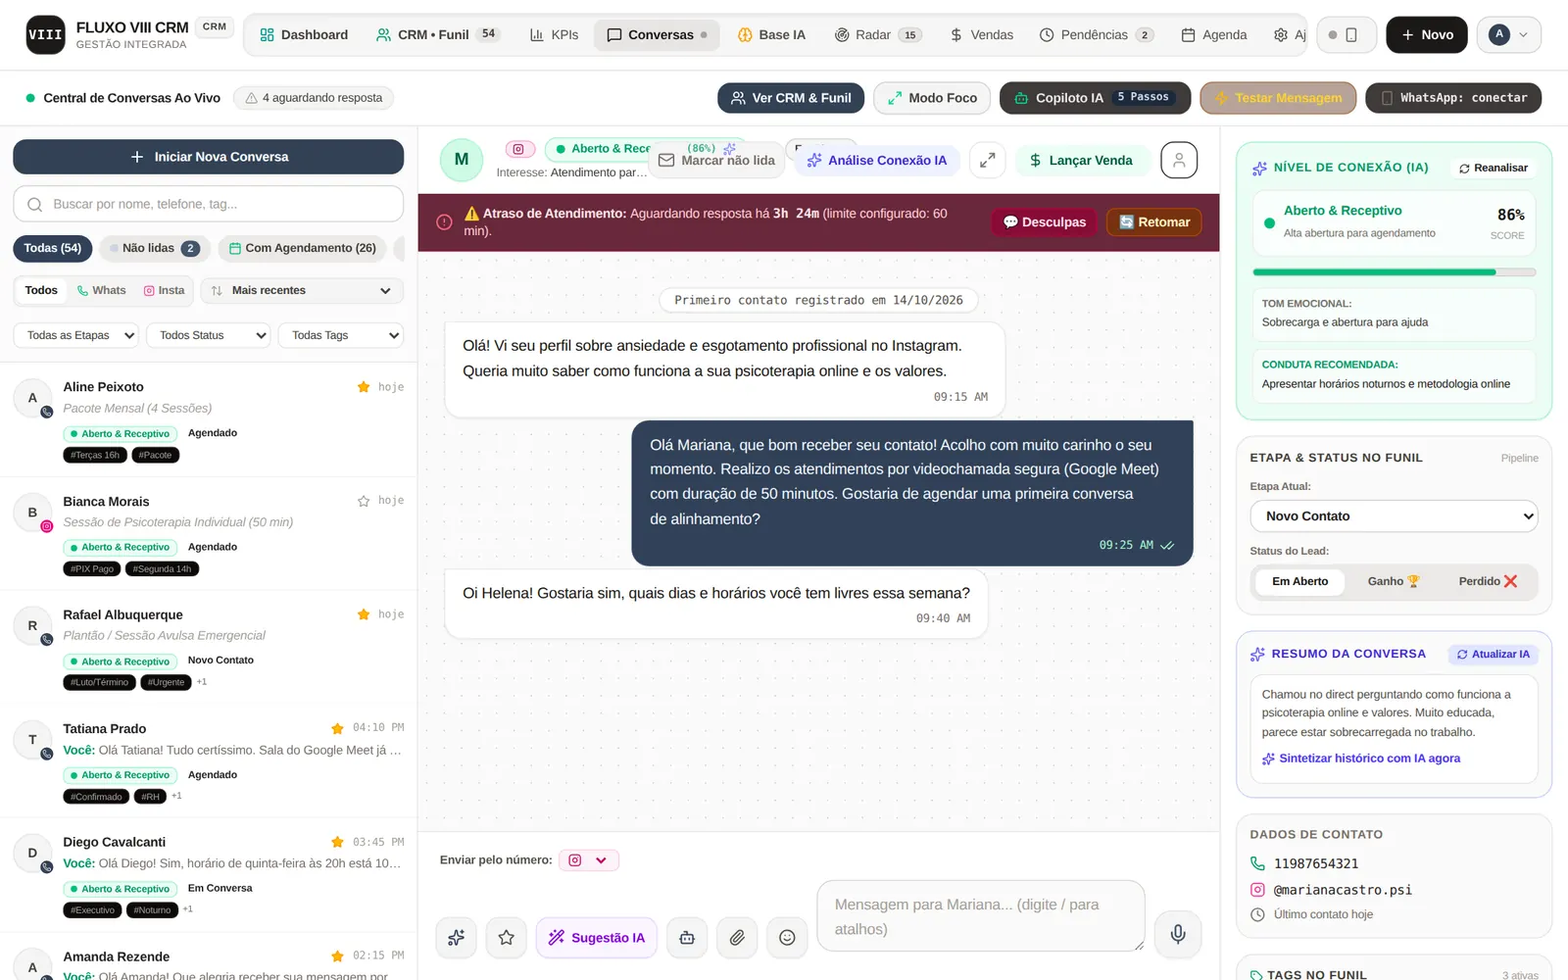
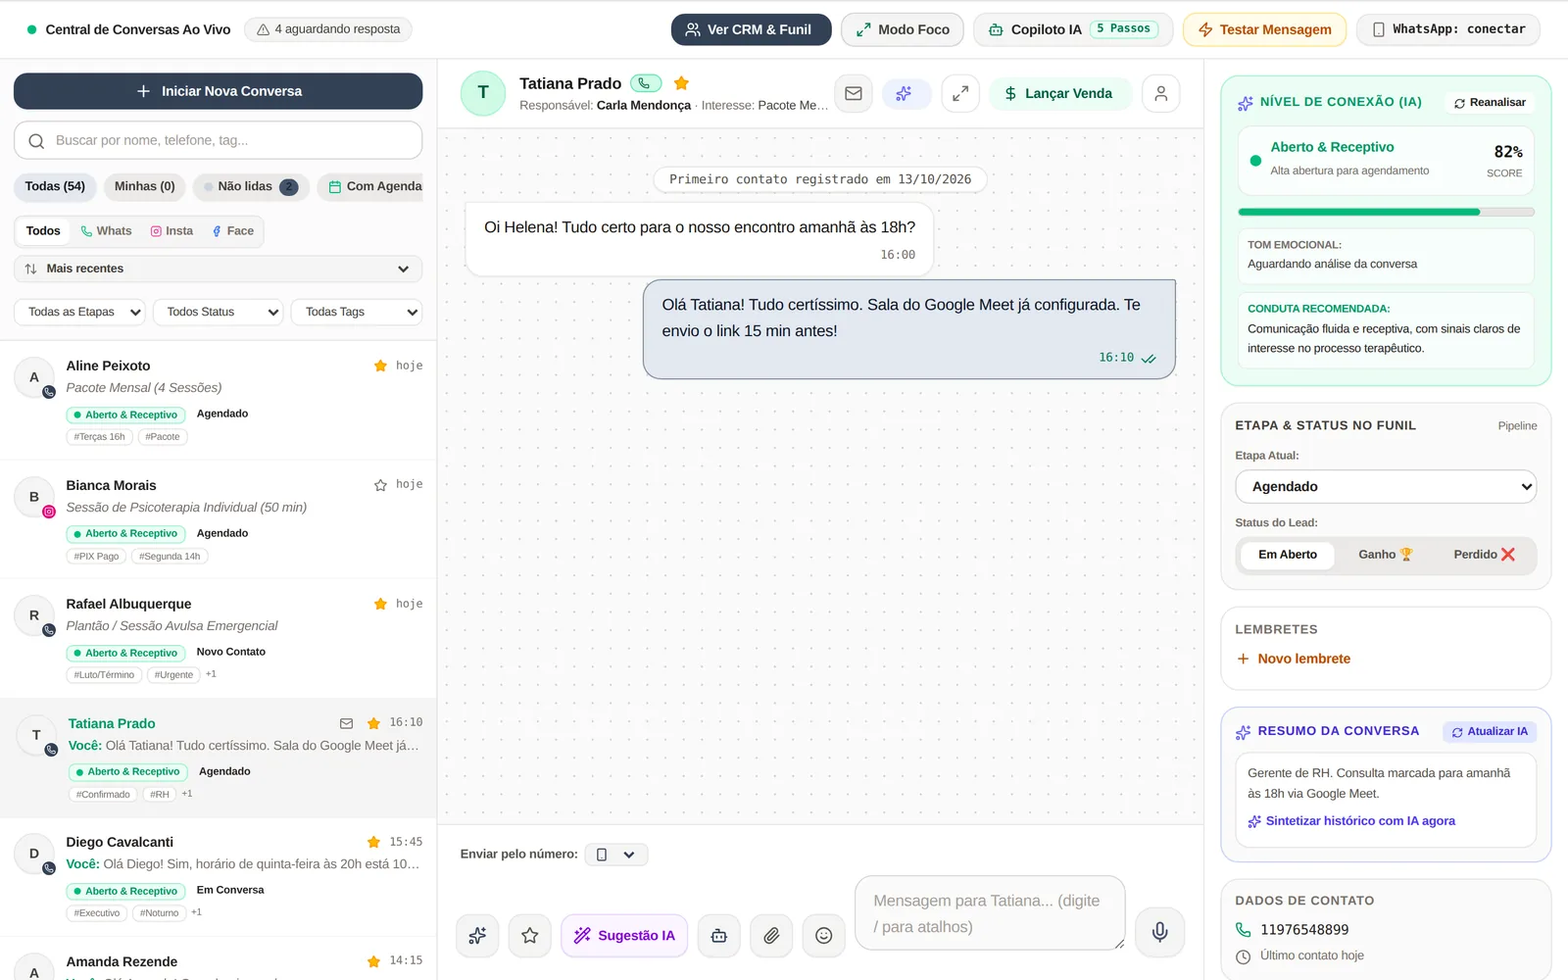
Prints novos do CRM (automação explicada) e versão de celular refeita
- Veja por dentro: 6 prints novos em tema claro e com zoom (funil com produtos e valor por etapa, conversa da Tatiana, card aberto com histórico, agenda, painel com meta) e a Automação explicada em uma imagem: venda ganha no funil Vendas, card nasce sozinho em CS · Pós-venda (Boas-vindas)
- Textos das abas Funil, Histórico e Automação atualizados
- Celular: menu com botão (Esc fecha), herói com o título primeiro e áreas em rolagem lateral, carrosséis com bolinhas, comparativo atrás de um botão, barra fixa com Ver planos e Falar com especialista, print do CRM que dá para arrastar
- Cache v=20261016a

Claude-Session: https://claude.ai/code/session_01Lv9fmrgHoT3vaFcuoHhKxR

diff --git a/site.js b/site.js
@@ -462,6 +462,7 @@ function renderPerUser() {
     '<p class="pu-note">Exemplo com uma equipe de ' + team + " pessoas e um CRM que cobra R$ " + PER_SEAT.toLocaleString("pt-BR") + " por usuário por mês (e o agente de IA costuma ser cobrado à parte). Aqui a equipe e a IA já estão no preço do plano.</p>";
 }
 
+var compareOpen = false;
 function renderCompare() {
   if (!$("compare")) return;
   var yes = '<span class="yes" aria-label="sim">✓</span>';
@@ -502,9 +503,11 @@ function renderCompare() {
     if (r.length === 1) return '<tr class="grp"><th colspan="' + (PLANS.length + 1) + '" scope="colgroup">' + esc(r[0]) + "</th></tr>";
     return '<tr><th scope="row">' + esc(r[0]) + "</th>" + r[1].map(function (v, i) { return "<td" + (PLANS[i].tag ? ' class="hl"' : "") + ">" + (v.indexOf("<span") === 0 ? v : esc(v)) + "</td>"; }).join("") + "</tr>";
   }).join("");
+  $("compare").classList.toggle("open", compareOpen);
   $("compare").innerHTML =
     '<div class="head"><p class="kicker">Comparativo completo</p><h3>Tudo que entra em cada plano</h3><p>Sem letra miúda: linha por linha, o que muda de um plano para o outro.</p></div>' +
-    '<div class="compare-scroll" tabindex="0" role="region" aria-label="Tabela comparativa dos planos"><table class="compare"><thead>' + head + "</thead><tbody>" + body + "</tbody></table></div>";
+    '<button type="button" class="btn cmp-toggle" aria-expanded="' + compareOpen + '" aria-controls="compare-table">' + (compareOpen ? "Esconder comparativo" : "Ver comparativo completo") + "</button>" +
+    '<div class="compare-scroll" id="compare-table" tabindex="0" role="region" aria-label="Tabela comparativa dos planos"><table class="compare"><thead>' + head + "</thead><tbody>" + body + "</tbody></table></div>";
 }
 
 var creditPlan = "pro";
@@ -596,12 +599,12 @@ if ($("cycle-switch")) {
 // ---------------------------------------------------------------------------
 // Veja por dentro: telas reais do CRM em abas
 var INSIDE = [
-  ["funil", "Funil", "Cada contato vira um card e anda pelas etapas", ["Arraste o card de etapa em etapa e veja onde cada negócio está.", "Etiquetas, valor, última mensagem e o índice de conexão no próprio card.", "Funis separados para Vendas e CS, cada um com as suas etapas."]],
+  ["funil", "Funil", "Cada contato vira um card e anda pelas etapas", ["Arraste o card de etapa em etapa e veja onde cada negócio está.", "Produtos e valor no próprio card, e o total em aberto em cada etapa.", "No topo, quanto está em aberto, quanto foi ganho e quanto foi perdido."]],
   ["conversas", "Conversas", "WhatsApp e Instagram numa tela só", ["Todas as conversas da equipe, com quem está atendendo cada uma.", "Aviso de atraso quando alguém espera resposta há tempo demais.", "A IA resume a conversa e sugere o próximo passo."]],
-  ["historico", "Histórico do cliente", "Tudo o que aconteceu com cada pessoa", ["Mensagens, anotações, vendas e agendamentos numa linha do tempo.", "Contato, origem, interesse e responsável sempre à vista.", "Lance a venda ou marque o retorno dali mesmo."]],
+  ["historico", "Histórico do cliente", "Tudo o que aconteceu com cada pessoa", ["Responsável, etapa, status e produtos do card logo no topo.", "Anotações, mensagens, vendas e agendamentos numa linha do tempo.", "Lance a venda ou marque o retorno dali mesmo."]],
   ["agenda", "Agenda", "Horários que se organizam sozinhos", ["Agenda ligada ao Google Agenda e link com a videochamada.", "Lembrete automático pelo WhatsApp na véspera.", "Link público para o cliente escolher o horário."]],
   ["painel", "Painel", "Os números do negócio sem planilha", ["Faturamento, vendas, conversão e tempo de resposta do período.", "Comparação com o período anterior e meta do mês.", "Painel compartilhável com o sócio por link."]],
-  ["automacao", "Automação", "Venda ganha, pós-venda começa", ["Quando o card vira Ganho, o card do CS nasce sozinho.", "Cada funil com o seu time e o seu número de WhatsApp.", "Quem vê cada funil é você quem decide."]]
+  ["automacao", "Automação", "Venda ganha, pós-venda começa sozinho", ["Marcou o card como Ganho? O card do pós-venda nasce sozinho no funil do CS.", "Ele já chega em Boas-vindas, com produto, valor e a origem da venda.", "Cada funil com o seu time e o seu número de WhatsApp."]]
 ];
 var insideOn = "funil";
 function renderInside() {
@@ -614,7 +617,7 @@ function renderInside() {
   $("in-panel").setAttribute("aria-labelledby", "in-tab-" + t[0]);
   $("in-panel").innerHTML =
     '<div class="in-text"><h3>' + esc(t[2]) + "</h3><ul>" + t[3].map(function (x) { return "<li>" + esc(x) + "</li>"; }).join("") + '</ul><a class="btn gold" href="#planos">Quero usar no meu negócio</a></div>' +
-    '<figure class="in-shot"><div class="in-bar" aria-hidden="true"><i></i><i></i><i></i><span>FLUXO VIII CRM</span></div><img src="img/crm-' + t[0] + '.webp" alt="Tela de ' + esc(t[1]) + ' do FLUXO VIII com dados de exemplo" loading="lazy" decoding="async"></figure>';
+    '<div class="in-media"><figure class="in-shot' + (t[0] === "automacao" ? "" : " pan") + '"><div class="in-bar" aria-hidden="true"><i></i><i></i><i></i><span>FLUXO VIII CRM</span></div><div class="in-zoom"><img src="img/crm-' + t[0] + '.webp" width="1600" height="1000" alt="' + (t[0] === "automacao" ? "Automação do FLUXO VIII: a venda marcada como Ganho no funil Vendas cria sozinha o card do cliente no funil CS · Pós-venda, na etapa Boas-vindas" : "Tela de " + esc(t[1]) + " do FLUXO VIII com dados de exemplo") + '" loading="lazy" decoding="async"></div></figure>' + (t[0] === "automacao" ? "" : '<p class="in-hint" aria-hidden="true">Arraste a imagem para ver a tela inteira</p>') + "</div>";
 }
 if ($("in-tabs")) {
   $("in-tabs").addEventListener("click", function (e) {
@@ -956,4 +959,123 @@ if (form) {
   }
   show();
   if (!reduce) setInterval(show, 2800);
+})();
+
+// ===== Celular: menu, comparativo recolhido, carrosséis e barra fixa de ações =====
+(function () {
+  var mq = window.matchMedia ? window.matchMedia("(max-width: 720px)") : { matches: false, addEventListener: function () {} };
+  var reduce = window.matchMedia && window.matchMedia("(prefers-reduced-motion: reduce)").matches;
+  var go = function (subject) {
+    if (hasSubjectForm) goContact(subject);
+    else location.href = "/?assunto=" + subject + "#contato";
+  };
+
+  // Menu do celular (a navegação do topo some abaixo de 980px)
+  var top = document.querySelector("header.top .wrap"), nav = document.querySelector("header.top .nav");
+  if (top && nav) {
+    var btn = document.createElement("button");
+    btn.type = "button";
+    btn.className = "menu-btn";
+    btn.setAttribute("aria-expanded", "false");
+    btn.setAttribute("aria-controls", "m-menu");
+    btn.setAttribute("aria-label", "Abrir menu");
+    btn.innerHTML = '<span aria-hidden="true"></span><span aria-hidden="true"></span><span aria-hidden="true"></span>';
+    top.appendChild(btn);
+    var links = Array.prototype.filter.call(nav.children, function (el) { return el.tagName === "A"; });
+    var niches = document.querySelectorAll("#dd-niches a[data-dd]");
+    var panel = document.createElement("div");
+    panel.className = "m-menu";
+    panel.id = "m-menu";
+    panel.hidden = true;
+    panel.setAttribute("role", "dialog");
+    panel.setAttribute("aria-label", "Menu");
+    panel.innerHTML =
+      '<nav class="m-links" aria-label="Seções">' + links.map(function (a) { return '<a href="' + esc(a.getAttribute("href")) + '">' + esc(a.textContent) + "</a>"; }).join("") + "</nav>" +
+      (niches.length ? '<p class="m-k">Para quem é</p><div class="m-niches">' + Array.prototype.map.call(niches, function (a) { return '<a href="' + esc(a.getAttribute("href")) + '" data-dd="' + esc(a.dataset.dd) + '">' + esc(a.querySelector("b").textContent) + "</a>"; }).join("") + "</div>" : "") +
+      '<div class="m-actions"><a class="btn" href="' + CRM_URL + '/entrar">Entrar</a><a class="btn gold" href="/?assunto=demonstracao#contato" data-m-subject="demonstracao">Agendar demonstração</a></div>';
+    document.querySelector("header.top").appendChild(panel);
+    var openMenu = function (open) {
+      panel.hidden = !open;
+      btn.setAttribute("aria-expanded", String(open));
+      btn.setAttribute("aria-label", open ? "Fechar menu" : "Abrir menu");
+      document.documentElement.classList.toggle("menu-open", open);
+      if (open) { var f = panel.querySelector("a"); if (f) f.focus(); }
+    };
+    btn.addEventListener("click", function () { openMenu(panel.hidden); });
+    document.addEventListener("keydown", function (e) { if (e.key === "Escape" && !panel.hidden) { openMenu(false); btn.focus(); } });
+    document.addEventListener("click", function (e) { if (!panel.hidden && !panel.contains(e.target) && !btn.contains(e.target)) openMenu(false); });
+    panel.addEventListener("click", function (e) {
+      var a = e.target.closest("a");
+      if (!a) return;
+      if (a.dataset.mSubject && hasSubjectForm) { e.preventDefault(); openMenu(false); go(a.dataset.mSubject); return; }
+      if (a.dataset.dd && $("niche-chips")) {
+        e.preventDefault(); openMenu(false);
+        renderNiche(a.dataset.dd); store.set("fluxo-area", a.dataset.dd);
+        if ($("inicio")) $("inicio").scrollIntoView({ behavior: reduce ? "auto" : "smooth" });
+        return;
+      }
+      openMenu(false);
+    });
+    window.addEventListener("resize", function () { if (window.innerWidth > 980 && !panel.hidden) openMenu(false); });
+  }
+
+  // Comparativo: no celular fica recolhido atrás de um botão
+  if ($("compare")) {
+    $("compare").addEventListener("click", function (e) {
+      var b = e.target.closest(".cmp-toggle");
+      if (!b) return;
+      compareOpen = !compareOpen;
+      $("compare").classList.toggle("open", compareOpen);
+      b.setAttribute("aria-expanded", String(compareOpen));
+      b.textContent = compareOpen ? "Esconder comparativo" : "Ver comparativo completo";
+      if (!compareOpen) $("compare").scrollIntoView({ behavior: reduce ? "auto" : "smooth", block: "start" });
+    });
+  }
+
+  // Carrosséis do celular: bolinhas mostram em qual card você está
+  var CARS = ["leaks", "case-list", "obj-list", "plans", "flow"];
+  var carEls = CARS.map($).concat(Array.prototype.slice.call(document.querySelectorAll(".edge, .pillars"))).filter(Boolean);
+  function dots(el) {
+    var d = el.nextElementSibling && el.nextElementSibling.classList.contains("car-dots") ? el.nextElementSibling : null;
+    if (!d) { d = document.createElement("div"); d.className = "car-dots"; d.setAttribute("aria-hidden", "true"); el.parentNode.insertBefore(d, el.nextSibling); }
+    var n = el.children.length;
+    if (d.childElementCount !== n) d.innerHTML = new Array(n + 1).join("<i></i>");
+    var w = el.children[0] ? el.children[0].getBoundingClientRect().width : 1;
+    var i = Math.min(n - 1, Math.round(el.scrollLeft / Math.max(1, w)));
+    if (el.scrollLeft + el.clientWidth >= el.scrollWidth - 4) i = n - 1;
+    Array.prototype.forEach.call(d.children, function (dot, k) { dot.classList.toggle("on", k === i); });
+  }
+  carEls.forEach(function (el) {
+    el.addEventListener("scroll", function () { dots(el); }, { passive: true });
+    dots(el);
+    if ("MutationObserver" in window) new MutationObserver(function () { dots(el); }).observe(el, { childList: true });
+  });
+  window.addEventListener("resize", function () { carEls.forEach(dots); });
+
+  // Barra fixa no rodapé do celular (só nas páginas com os planos)
+  if (!$("planos")) return;
+  var bar = document.createElement("div");
+  bar.className = "m-cta";
+  bar.innerHTML = '<a class="btn gold" href="#planos">Ver planos</a><a class="btn" href="/?assunto=especialista#contato" data-m-subject="especialista">Falar com especialista</a>';
+  document.body.appendChild(bar);
+  bar.addEventListener("click", function (e) {
+    var a = e.target.closest("[data-m-subject]");
+    if (a && hasSubjectForm) { e.preventDefault(); go(a.dataset.mSubject); }
+  });
+  var formSeen = false, heroSeen = true;
+  var heroEl = document.querySelector(".hero") || document.querySelector(".page-head");
+  function sync() {
+    var show = mq.matches && !formSeen && !heroSeen && !document.documentElement.classList.contains("menu-open");
+    bar.classList.toggle("on", show);
+    document.documentElement.classList.toggle("has-mcta", mq.matches);
+  }
+  if ("IntersectionObserver" in window) {
+    var contact = $("contato") || $("lead-form");
+    if (contact) new IntersectionObserver(function (en) { formSeen = en[0].isIntersecting; sync(); }, { rootMargin: "0px 0px -10% 0px" }).observe(contact);
+    if (heroEl) new IntersectionObserver(function (en) { heroSeen = en[0].isIntersecting; sync(); }, { rootMargin: "-40% 0px 0px 0px" }).observe(heroEl);
+    else heroSeen = false;
+  } else heroSeen = false;
+  if (mq.addEventListener) mq.addEventListener("change", sync);
+  new MutationObserver(sync).observe(document.documentElement, { attributes: true, attributeFilter: ["class"] });
+  sync();
 })();

diff --git a/site.css b/site.css
@@ -595,6 +595,8 @@ table.compare{width:100%;min-width:640px;border-collapse:collapse;font-size:15px
 .in-bar{display:flex;align-items:center;gap:6px;padding:9px 12px;border-bottom:1px solid var(--line);background:color-mix(in srgb,var(--ink) 4%,var(--surface))}
 .in-bar i{width:10px;height:10px;border-radius:50%;background:var(--line)}
 .in-bar span{margin-left:8px;font-size:12px;color:var(--muted)}
+.in-media{min-width:0}
+.in-hint{display:none;margin:8px 0 0;font-size:13px;color:var(--muted);text-align:center}
 .in-shot img{display:block;width:100%;height:auto;aspect-ratio:16/10;object-fit:cover;object-position:top left;background:#f5f5f4}
 
 /* Rodapé */
@@ -610,7 +612,7 @@ footer .wrap{display:grid;gap:22px}
 
 @media (max-width:900px){
   .in-panel{grid-template-columns:minmax(0,1fr)}
-  .in-shot{order:-1}
+  .in-media{order:-1}
   .cr-grid{grid-template-columns:minmax(0,1fr)}
   .per-user{grid-template-columns:1fr}
   .pu-vs{justify-self:center}
@@ -733,3 +735,116 @@ footer .wrap{display:grid;gap:22px}
 .crx-own b{color:var(--ink)}
 @media (max-width:860px){.crx{grid-template-columns:minmax(0,1fr)}}
 @media (max-width:420px){.crx-legend{grid-template-columns:1fr}.crx-main,.crx-side{padding:18px}}
+
+/* ===== Celular ===== */
+/* Botão do menu (aparece quando a navegação do topo some) */
+.menu-btn{display:none;flex:none;width:44px;height:44px;border-radius:12px;border:1.5px solid var(--line);background:var(--surface);color:var(--ink);cursor:pointer;padding:0;flex-direction:column;align-items:center;justify-content:center;gap:5px}
+.menu-btn span{display:block;width:18px;height:2px;border-radius:2px;background:currentColor;transition:transform .2s ease,opacity .2s ease}
+.menu-btn[aria-expanded="true"] span:nth-child(1){transform:translateY(7px) rotate(45deg)}
+.menu-btn[aria-expanded="true"] span:nth-child(2){opacity:0}
+.menu-btn[aria-expanded="true"] span:nth-child(3){transform:translateY(-7px) rotate(-45deg)}
+.m-menu{position:absolute;left:0;right:0;top:100%;max-height:calc(100dvh - 64px);overflow-y:auto;overscroll-behavior:contain;padding:12px 20px 24px;background:var(--paper);border-bottom:1px solid var(--line);box-shadow:0 30px 40px -30px rgba(11,31,74,.45)}
+.m-menu[hidden]{display:none}
+.m-links{display:grid}
+.m-links a{display:flex;align-items:center;justify-content:space-between;min-height:52px;padding:0 4px;border-bottom:1px solid var(--line);font-weight:700;font-size:17px;text-decoration:none;color:var(--ink)}
+.m-links a::after{content:"›";font-family:var(--display);color:var(--gold-ink);font-size:20px}
+.m-k{margin:18px 0 10px;font-size:12px;font-weight:800;letter-spacing:.12em;text-transform:uppercase;color:var(--gold-ink)}
+.m-niches{display:flex;flex-wrap:wrap;gap:8px}
+.m-niches a{padding:9px 14px;border-radius:999px;border:1px solid var(--line);background:var(--surface);font-size:14.5px;font-weight:600;text-decoration:none;color:var(--ink)}
+.m-actions{display:grid;grid-template-columns:1fr;gap:10px;margin-top:20px}
+.m-actions .btn{min-height:50px;padding:0 12px;text-align:center}
+@media (max-width:980px){.menu-btn{display:inline-flex}.top .wrap{gap:10px}}
+@media (max-width:600px){.top-actions [data-login]{display:none}}
+@media (max-width:380px){.top .btn{font-size:13px;padding:0 12px}.brand img{height:26px}}
+
+/* Comparativo recolhido */
+.cmp-toggle{display:none}
+.car-dots{display:none}
+.m-cta{display:none}
+
+@media (max-width:720px){
+  body{font-size:16px}
+  section{padding-block:52px}
+  .head{margin-bottom:24px}
+  .head p{margin-top:10px}
+  .wrap{padding-inline:16px}
+
+  /* Herói: título primeiro, áreas e destaques em rolagem lateral */
+  .hero{padding-block:24px 8px}
+  .hero .wrap{gap:4px}
+  .hero .wrap > div:first-child{display:flex;flex-direction:column}
+  .hero h1{order:1;font-size:clamp(34px,10.4vw,44px);line-height:1.04}
+  .hero .lead{order:2;margin-top:14px;font-size:16.5px;line-height:1.5}
+  .hero .ctas{order:3;margin-top:20px;display:grid;grid-template-columns:1fr;gap:10px}
+  .hero .ctas .btn{min-height:50px}
+  .hero .ctas .link{grid-column:1/-1;justify-self:center;margin:2px 0 0}
+  .hero-note{order:4;margin-top:12px}
+  .picker{order:5;margin:20px 0 0}
+  .picker p{margin-bottom:8px;font-size:13px}
+  .facts{order:6;margin-top:14px}
+  .chips,.facts{flex-wrap:nowrap;overflow-x:auto;scroll-snap-type:x proximity;margin-inline:-16px;padding:2px 16px 6px;scrollbar-width:none;-webkit-overflow-scrolling:touch}
+  .chips::-webkit-scrollbar,.facts::-webkit-scrollbar{display:none}
+  .chips button,.facts li{flex:none;white-space:nowrap;scroll-snap-align:start}
+  .field{max-width:290px;margin:4px auto 0}
+  .chip{font-size:11.5px;padding:4px 9px}
+  .toast{padding:6px 10px}
+  .hud{display:none}
+
+  /* Carrosséis horizontais */
+  .leaks,.case-list,.obj-list,.plans,.edge,.flow,.pillars,.testi-list{display:flex;gap:12px;overflow-x:auto;scroll-snap-type:x mandatory;margin-inline:-16px;padding:4px 16px 8px;scroll-padding-inline:16px;scrollbar-width:none;-webkit-overflow-scrolling:touch;overscroll-behavior-x:contain}
+  .leaks::-webkit-scrollbar,.case-list::-webkit-scrollbar,.obj-list::-webkit-scrollbar,.plans::-webkit-scrollbar,.edge::-webkit-scrollbar,.flow::-webkit-scrollbar,.pillars::-webkit-scrollbar,.testi-list::-webkit-scrollbar{display:none}
+  .leaks > *,.case-list > *,.obj-list > *,.plans > *,.edge > *,.flow > *,.pillars > *,.testi-list > *{flex:0 0 84%;max-width:340px;scroll-snap-align:start;grid-column:auto!important}
+  .plans > *{flex-basis:86%}
+  .plans{align-items:stretch}
+  .car-dots{display:flex;justify-content:center;gap:6px;margin-top:6px}
+  .car-dots i{width:7px;height:7px;border-radius:99px;background:var(--line);transition:width .2s ease,background .2s ease}
+  .car-dots i.on{width:20px;background:var(--gold)}
+  .story .car-dots i{background:rgba(233,238,248,.2)}
+  .story .car-dots i.on{background:#D9AE55}
+  .edge{margin:0 -16px 10px}
+  .edge + .car-dots{margin:-2px 0 22px}
+
+  /* Linha do tempo vira carrossel */
+  .flow::before{display:none}
+  .flow .node{opacity:1;transform:none;padding:0}
+  .flow .node .dot{display:none}
+  .flow .node-card{height:100%}
+
+  /* Comparativo: botão para abrir */
+  .compare-wrap,.credits{margin-top:40px}
+  .cmp-toggle{display:flex;width:100%;margin-top:16px}
+  .compare-wrap:not(.open) .compare-scroll{display:none}
+  table.compare{min-width:560px;font-size:14px}
+  .compare th,.compare td{padding:10px 12px}
+  .compare tbody th[scope="row"],.compare thead th:first-child{position:sticky;left:0;z-index:1;background:var(--surface);min-width:150px;max-width:170px;box-shadow:1px 0 0 var(--line)}
+  .compare thead th:first-child{z-index:2}
+
+  /* Outros ajustes */
+  .about-quote{min-height:0;padding:28px 24px}
+  .about-quote .sign{max-width:none}
+  .pillars{margin-top:28px}
+  .story-cta,.how-cta{padding:20px}
+  .story-cta .cta-actions,.how-cta .cta-actions,.hook .cta-actions{display:grid;grid-template-columns:1fr;width:100%}
+  .in-panel{gap:18px}
+  .in-text .btn{width:100%}
+  .in-shot.pan .in-zoom{overflow-x:auto;scrollbar-width:none;-webkit-overflow-scrolling:touch}
+  .in-shot.pan .in-zoom::-webkit-scrollbar{display:none}
+  .in-shot.pan img{width:180%;max-width:none}
+  .in-hint{display:block}
+  .vault{padding:18px;gap:16px}
+  .faq summary{font-size:16.5px}
+  .contact{gap:24px}
+  footer{padding-bottom:40px}
+  html.has-mcta footer{padding-bottom:110px}
+
+  /* Barra fixa de ações */
+  .m-cta{display:grid;grid-template-columns:minmax(0,.8fr) minmax(0,1.2fr);gap:8px;position:fixed;z-index:30;left:0;right:0;bottom:0;padding:10px 12px calc(10px + env(safe-area-inset-bottom));
+    background:color-mix(in srgb,var(--paper) 92%,transparent);backdrop-filter:blur(12px);border-top:1px solid var(--line);box-shadow:0 -12px 30px -20px rgba(11,31,74,.45);
+    transform:translateY(110%);transition:transform .25s ease;visibility:hidden}
+  .m-cta.on{transform:none;visibility:visible}
+  .m-cta .btn{min-height:46px;padding:0 8px;font-size:clamp(13px,3.7vw,14.5px);white-space:nowrap}
+  .incl{gap:8px}
+  .incl li{font-size:13.5px;padding:6px 12px}
+}
+@media (max-width:720px) and (prefers-reduced-motion: reduce){.m-cta,.car-dots i,.menu-btn span{transition:none}}
+html.menu-open{overflow:hidden}

diff --git a/parceiros.html b/parceiros.html
@@ -16,7 +16,7 @@
 <link rel="preconnect" href="https://fonts.googleapis.com">
 <link rel="preconnect" href="https://fonts.gstatic.com" crossorigin>
 <link rel="stylesheet" href="https://fonts.googleapis.com/css2?family=Unbounded:wght@500;600;700&family=Schibsted+Grotesk:wght@400;500;600;700&display=swap">
-<link rel="stylesheet" href="site.css?v=20261015d">
+<link rel="stylesheet" href="site.css?v=20261016a">
 </head>
 <body>
 
@@ -123,6 +123,6 @@
   </div>
 </footer>
 
-<script src="site.js?v=20261015d" defer></script>
+<script src="site.js?v=20261016a" defer></script>
 </body>
 </html>

diff --git a/ficha.html b/ficha.html
@@ -16,7 +16,7 @@
 <link rel="preconnect" href="https://fonts.googleapis.com">
 <link rel="preconnect" href="https://fonts.gstatic.com" crossorigin>
 <link rel="stylesheet" href="https://fonts.googleapis.com/css2?family=Unbounded:wght@500;600;700&family=Schibsted+Grotesk:wght@400;500;600;700&display=swap">
-<link rel="stylesheet" href="site.css?v=20261015d">
+<link rel="stylesheet" href="site.css?v=20261016a">
 </head>
 <body>
 
@@ -97,6 +97,6 @@
   </div>
 </footer>
 
-<script src="site.js?v=20261015d" defer></script>
+<script src="site.js?v=20261016a" defer></script>
 </body>
 </html>

diff --git a/planos.html b/planos.html
@@ -16,7 +16,7 @@
 <link rel="preconnect" href="https://fonts.googleapis.com">
 <link rel="preconnect" href="https://fonts.gstatic.com" crossorigin>
 <link rel="stylesheet" href="https://fonts.googleapis.com/css2?family=Unbounded:wght@500;600;700&family=Schibsted+Grotesk:wght@400;500;600;700&display=swap">
-<link rel="stylesheet" href="site.css?v=20261015d">
+<link rel="stylesheet" href="site.css?v=20261016a">
 </head>
 <body>
 
@@ -95,6 +95,6 @@
   </div>
 </footer>
 
-<script src="site.js?v=20261015d" defer></script>
+<script src="site.js?v=20261016a" defer></script>
 </body>
 </html>

diff --git a/index.html b/index.html
@@ -16,7 +16,7 @@
 <link rel="preconnect" href="https://fonts.googleapis.com">
 <link rel="preconnect" href="https://fonts.gstatic.com" crossorigin>
 <link rel="stylesheet" href="https://fonts.googleapis.com/css2?family=Unbounded:wght@500;600;700&family=Schibsted+Grotesk:wght@400;500;600;700&display=swap">
-<link rel="stylesheet" href="site.css?v=20261015d">
+<link rel="stylesheet" href="site.css?v=20261016a">
 </head>
 <body>
 
@@ -406,6 +406,6 @@
 </footer>
 
 
-<script src="site.js?v=20261015d" defer></script>
+<script src="site.js?v=20261016a" defer></script>
 </body>
 </html>
